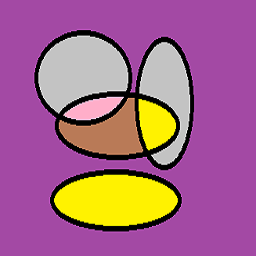
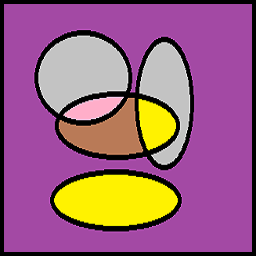
Background Texture

Changed region(s): [[0.0, 0.0, 1.0, 1.0]]

diff --git a/app/src/main/java/renderEngine/SurfaceRenderer.java b/app/src/main/java/renderEngine/SurfaceRenderer.java
@@ -15,6 +15,7 @@ import javax.microedition.khronos.opengles.GL10;
 import entity.Camera;
 import entity.Entity;
 import entity.Light;
+import model.BgModelLoader;
 import model.OBJLoader;
 import model.RawModel;
 import model.TexturedModel;
@@ -37,6 +38,7 @@ public class SurfaceRenderer implements GLSurfaceView.Renderer {
     private RawModel rawModel;
     private ModelTexture modelTexture;
     private TexturedModel model;
+    private TexturedModel bgModel;
     private Entity entity;
     private EntityRenderer renderer;
     private static int width;
@@ -153,10 +155,11 @@ public class SurfaceRenderer implements GLSurfaceView.Renderer {
                 23,21,22
 
         };
-
+        bgShader = new BgShader(context);
         staticShader = new StaticShader(context);
         loader=new Loader();
         rawModel= OBJLoader.loadObjModel(context ,"stall.obj",loader);
+        bgModel = new TexturedModel(BgModelLoader.createBgModel(loader), new ModelTexture(TextureResourceReader.loadTexturue(context,"tex.png")));
         modelTexture =new ModelTexture(TextureResourceReader.loadTexturue(context,"stallTexture.png"));
         modelTexture.setReflectivity(1);
         modelTexture.setShineDamper(10);
@@ -164,6 +167,7 @@ public class SurfaceRenderer implements GLSurfaceView.Renderer {
         entity= new Entity(model,new Vector3f(0.0f,-10.0f,-10.0f),0,0,0,1);
         camera = new Camera();
         light = new Light(new Vector3f(0,100,5),new Vector3f(0.0f,1.0f,1.0f));
+        bgRenderer = new BgRenderer();
     }
 
     @Override
@@ -181,14 +185,21 @@ public class SurfaceRenderer implements GLSurfaceView.Renderer {
     public void onDrawFrame(GL10 gl) {
        // entity.increaseRotation(0.0f,0.1f,0.0f);
         prepare();
+
+        bgShader.runProgram();
+        bgRenderer.render(bgModel);
+        bgShader.stopProgram();
+        GLES20.glClear(GLES20.GL_DEPTH_BUFFER_BIT);
         staticShader.runProgram();
         staticShader.loadLight(light);
         staticShader.loadViewMatrix(camera);
         processEntity(entity);
-
         renderer.render(entities);
         staticShader.stopProgram();
         entities.clear();
+
+
+
         fps.logFrame();
 
     }

diff --git a/app/src/main/java/utility/TextureResourceReader.java b/app/src/main/java/utility/TextureResourceReader.java
@@ -3,6 +3,7 @@ package utility;
 import android.content.Context;
 import android.graphics.Bitmap;
 import android.graphics.BitmapFactory;
+import android.opengl.GLES11Ext;
 import android.opengl.GLES20;
 import android.opengl.GLUtils;
 import android.util.Log;
@@ -51,5 +52,17 @@ public class TextureResourceReader {
         GLES20.glTexParameteri(GLES20.GL_TEXTURE_2D,GLES20.GL_TEXTURE_MAG_FILTER, GLES20.GL_NEAREST);
         bitmap.recycle();
         return texturehandle[0];
+}
+
+public static int loadBgTexture(){
+    int [] hTex = new int[1];
+    GLES20.glGenTextures ( 1, hTex, 0 );
+    GLES20.glBindTexture(GLES11Ext.GL_TEXTURE_EXTERNAL_OES, hTex[0]);
+    GLES20.glTexParameteri(GLES11Ext.GL_TEXTURE_EXTERNAL_OES, GLES20.GL_TEXTURE_WRAP_S, GLES20.GL_CLAMP_TO_EDGE);
+    GLES20.glTexParameteri(GLES11Ext.GL_TEXTURE_EXTERNAL_OES, GLES20.GL_TEXTURE_WRAP_T, GLES20.GL_CLAMP_TO_EDGE);
+    GLES20.glTexParameteri(GLES11Ext.GL_TEXTURE_EXTERNAL_OES, GLES20.GL_TEXTURE_MIN_FILTER, GLES20.GL_NEAREST);
+    GLES20.glTexParameteri(GLES11Ext.GL_TEXTURE_EXTERNAL_OES, GLES20.GL_TEXTURE_MAG_FILTER, GLES20.GL_NEAREST);
+
+    return  hTex[0];
 }
 }

diff --git a/app/src/main/java/renderEngine/BgRenderer.java b/app/src/main/java/renderEngine/BgRenderer.java
@@ -15,18 +15,12 @@ import texture.ModelTexture;
 
 public class BgRenderer {
 
-     private BgShader bgShader;
 
-
-    public BgRenderer(BgShader bgShader) {
-        this.bgShader = bgShader;
-    }
 
     public void render(TexturedModel texturedModel){
         GLES30.glBindVertexArray(texturedModel.getRawModel().getVaoID());
         GLES20.glEnableVertexAttribArray(0);
         GLES20.glEnableVertexAttribArray(1);
-        GLES20.glEnableVertexAttribArray(2);
         ModelTexture texture = texturedModel.getModelTexture();
         GLES20.glActiveTexture(GLES20.GL_TEXTURE0);
         GLES20.glBindTexture(GLES20.GL_TEXTURE_2D,texturedModel.getModelTexture().getTextureId());
@@ -35,7 +29,6 @@ public class BgRenderer {
 
         GLES20.glDisableVertexAttribArray(0);
         GLES20.glDisableVertexAttribArray(1);
-        GLES20.glDisableVertexAttribArray(2);
         GLES30.glBindVertexArray(0);
 
     }

diff --git a/app/src/main/java/model/BgModelLoader.java b/app/src/main/java/model/BgModelLoader.java
@@ -1,10 +1,34 @@
 package model;
 
+import renderEngine.Loader;
+
 /**
  * Created by VRlab on 1/17/2018.
  */
 
 public class BgModelLoader {
+
+  public static RawModel createBgModel(Loader loader){
+    float[] vertices = {
+            -1.0f, 1.0f, -1.0f,
+            -1.0f, -1.0f, -1.0f,
+            1.0f, -1.0f, -1.0f,
+            1.0f, 1.0f, -1.0f
+    };
+    int [] indices ={
+            0,1,3,
+            3,1,2
+    };
+    float[] textureCoords={
+            0,0,
+            0,1,
+            1,1,
+            1,0
+
+    };
+
+   return loader.loadtoVAO(vertices,indices,textureCoords);
+  }
 
 
 }

diff --git a/app/src/main/java/renderEngine/Loader.java b/app/src/main/java/renderEngine/Loader.java
@@ -37,6 +37,18 @@ public class Loader {
         unbindVao();
         return new RawModel( vaoID, indicies.length);
     }
+    public RawModel loadtoVAO(float[] positions,int [] indicies, float[] textureCoords){
+        int vaoID =createVAO();
+        bindIndexBuffer(indicies);
+
+        storeDatainAttribule(0,3,positions);
+        storeDatainAttribule(1,2,textureCoords);
+
+
+        unbindVao();
+        return new RawModel( vaoID, indicies.length);
+    }
+
 
     private void bindIndexBuffer(int[] indicies) {
         int[] vbo = new int[1];

diff --git a/app/src/main/java/shaders/BgShader.java b/app/src/main/java/shaders/BgShader.java
@@ -10,8 +10,8 @@ public class BgShader extends ShaderProgram {
     private static final String VERTEX_FILE="bgVertex.glsl";
     private static final String FRAG_FILE= "bgFrag.glsl";
 
-    public BgShader(Context context, String vsResourceID, String fsResourceId) {
-        super(context, vsResourceID, fsResourceId);
+    public BgShader(Context context) {
+        super(context, VERTEX_FILE, FRAG_FILE);
     }
 
     @Override
